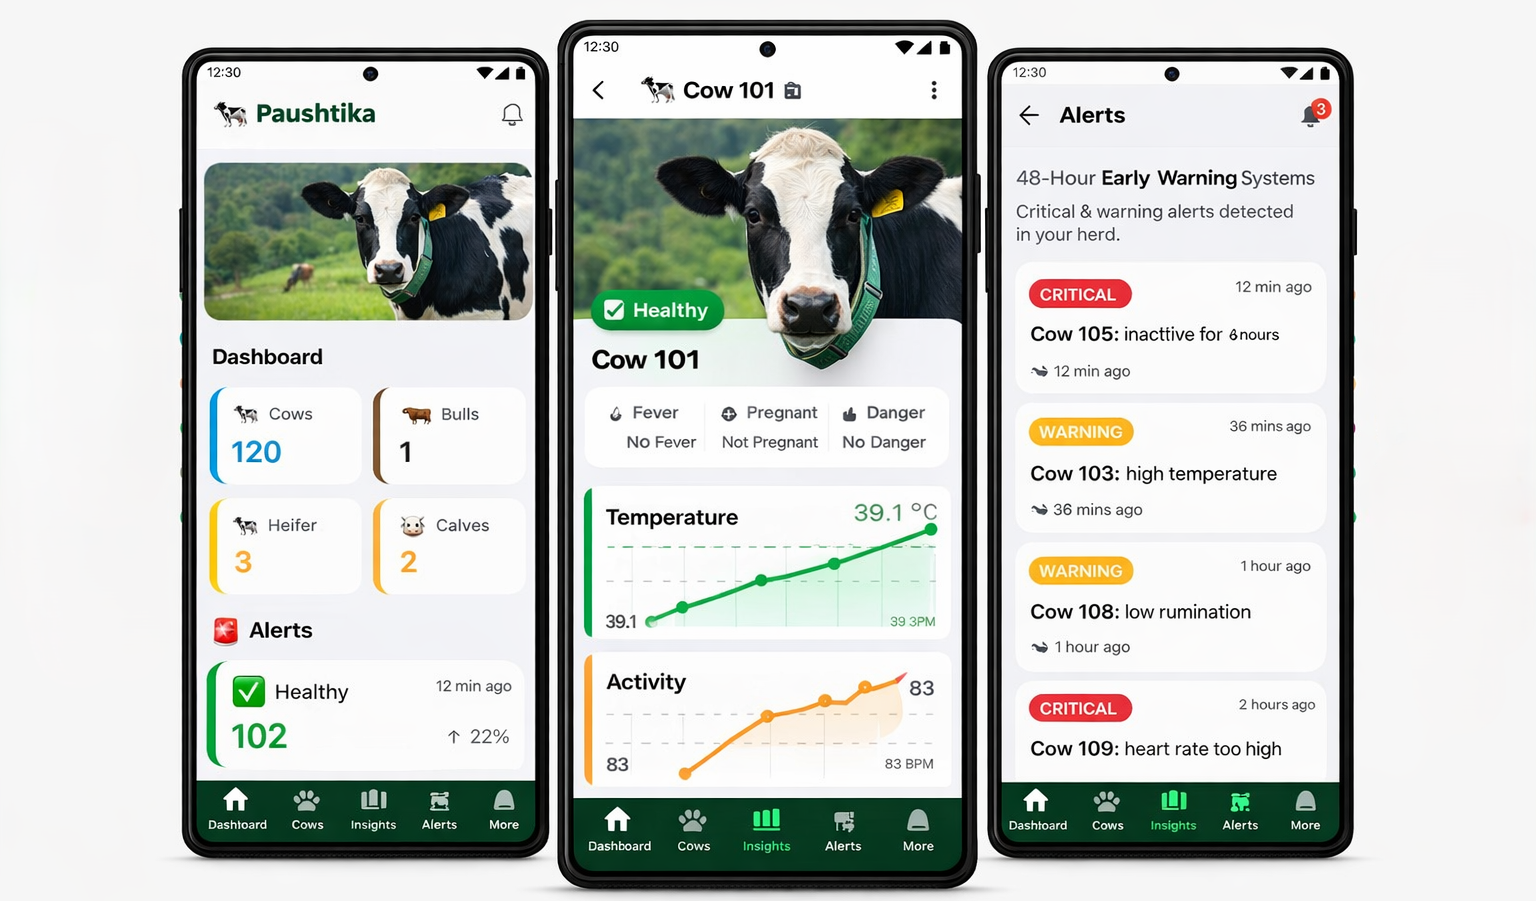
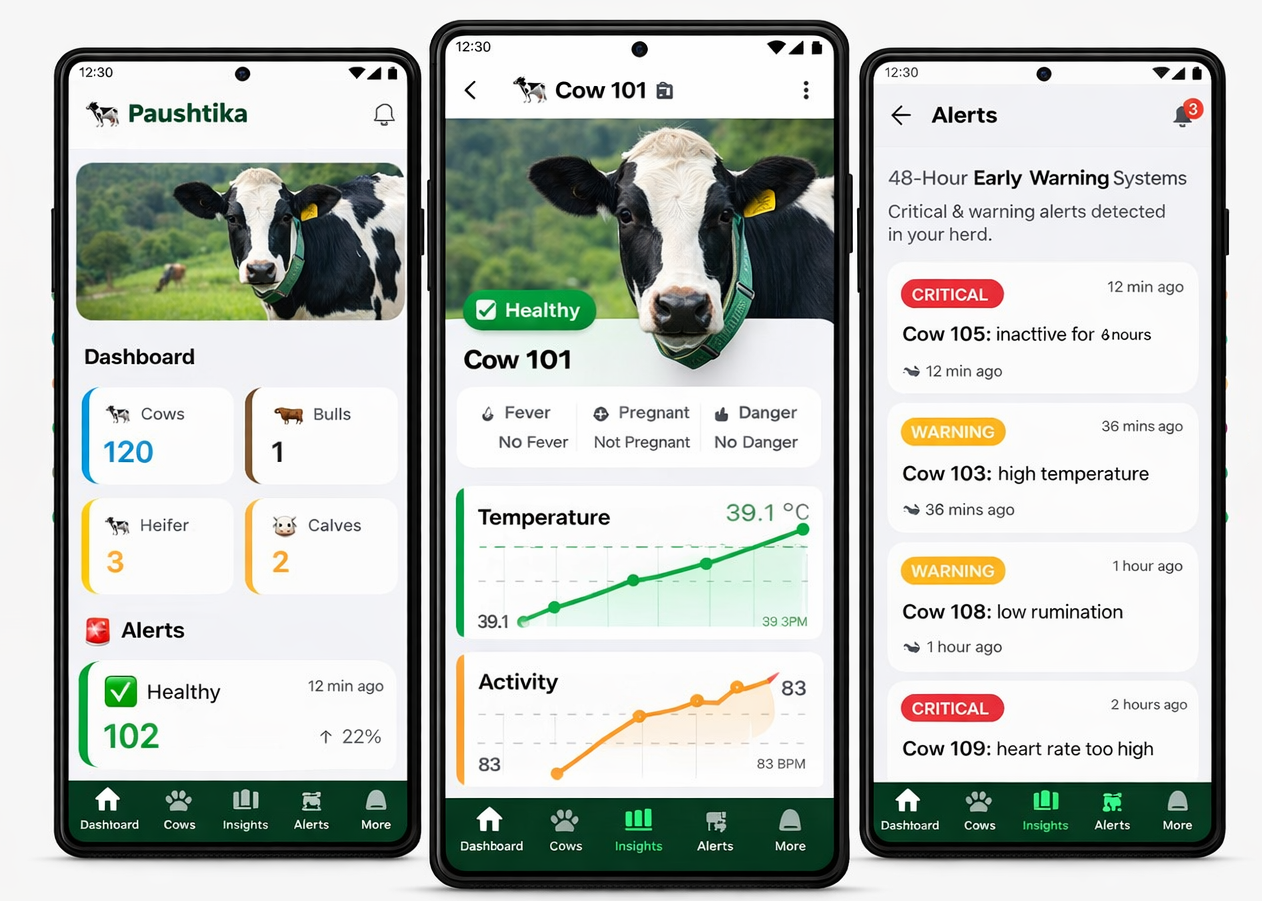
232323

diff --git a/index.html b/index.html
@@ -155,7 +155,7 @@
                         <!-- <a href="#" class="btn-read">Read More</a> -->
                     </div>
                 </div>
-                <div class="product-card">
+                <!-- <div class="product-card">
                     <div class="product-image" style="display: flex; justify-content: center; align-items: center;">
                         <img src="img/nutriTrack_picc.png" alt="Smart Baby Feeding Solution" loading="lazy">
                     </div>
@@ -181,9 +181,9 @@
                                 <span>Nutrition analytics</span>
                             </div>
                         </div>
-                        <!-- <a href="#" class="btn-read">Read More</a> -->
+                        <a href="#" class="btn-read">Read More</a>
                     </div>
-                </div>
+                </div> -->
             </div>
         </div>
     </section>
@@ -197,7 +197,7 @@
     <section class="paushtika" id="paushtika">
         <div class="container">
             <div class="section-title">
-                <h3>Paushtika</h3>
+                <h3>Paushtika App</h3>
                 <p>AI Cattle Health Monitor</p>
             </div>
             <div class="paushtika-grid">
@@ -232,7 +232,7 @@
                 </div>
 
                 <div class="cow-dashboard-image-container">
-                    <img src="img/paushtika lora.png" alt="Paushtika dashboard for cow monitoring" loading="lazy" style="height: auto;">
+                    <img src="img/paushtika lora.png" alt="Paushtika dashboard for cow monitoring" loading="lazy">
                 </div>
 
             </div>
@@ -246,7 +246,7 @@
             <div class="cow-insight-content">
 
                 <div class="cow-insight-image-container">
-                    <img src="img/analytics.png" alt="Paushtika select cow analytics" loading="lazy">
+                    <img src="img/paushtika analytics temp.png" alt="Paushtika select cow analytics" loading="lazy">
                 </div>
 
                 <div class="cow-insight-text">
@@ -295,7 +295,7 @@
                 </div>
 
                 <div class="cow-dashboard-image-container">
-                    <img src="img/COW_selectt.png" alt="Paushtika cow status monitoring" loading="lazy">
+                    <img src="img/paushtika cow selet.png" alt="Paushtika cow status monitoring" loading="lazy">
                 </div>
 
             </div>
@@ -309,7 +309,7 @@
             <div class="cow-insight-content">
 
                 <div class="cow-insight-image-container">
-                    <img src="img/paushtika-_alert.png" alt="Paushtika cow alert Notification" loading="lazy">
+                    <img src="img/paushtika cow alert.png" alt="Paushtika cow alert Notification" loading="lazy">
                 </div>
 
                 <div class="cow-insight-text">
@@ -389,6 +389,7 @@
 
     <script src="https://cdn.jsdelivr.net/npm/@emailjs/browser@3/dist/email.min.js"></script>
     <script src="js/main.js"></script>
-</body>
 
+    
+</body>
 </html>

diff --git a/css/main.css b/css/main.css
@@ -261,7 +261,7 @@ nav ul li a:hover:after {
 .about,
 .products,
 .technology {
-    padding: 9.7rem 0;
+    padding: 8rem 0;
 }
 
 .about,
@@ -503,18 +503,17 @@ nav ul li a:hover:after {
 
 .paushtika-image {
     overflow: hidden;
-    padding: 15px 15px 0 15px;
 }
 
 .paushtika-image img {
     width: 100%;
-    height: 100%;
+    height: 700px;
     object-fit: contain;
     border-radius: 10px;
 }
 
 .cow-dashboard {
-    padding: 100px 0;
+    padding: 6rem 0;
     background-color: var(--light);
 }
 
@@ -558,28 +557,22 @@ nav ul li a:hover:after {
 
 /* IMAGE CONTAINER */
 .cow-dashboard-image-container {
-    flex: 1.5;
+    flex: 1.2;
     border-radius: 20px;
-    padding: 15px;
-    transition: all 0.3s ease;
-}
-
-.cow-dashboard-image-container:hover {
-    transform: translateY(-5px);
 }
 
 .cow-dashboard-image-container img {
     width: 100%;
-    height: 480px;
+    height: auto;
     object-fit: contain;
-    border-radius: 12px;
+    border-radius: 20px;
 }
 
 
 /**** Cow Insight Section ****/
 
 .cow-insight {
-    padding: 100px 0;
+    padding: 5rem 0;
     background-color: var(--white);
 }
 
@@ -623,24 +616,58 @@ nav ul li a:hover:after {
 
 /* IMAGE CONTAINER */
 .cow-insight-image-container {
-    flex: 1.5;
+    flex: 1.2;
     border-radius: 20px;
-    padding: 15px;
-    transition: all 0.3s ease;
-}
-
-.cow-insight-image-container:hover {
-    transform: translateY(-5px);
 }
 
 .cow-insight-image-container img {
     width: 100%;
-    height: 480px;
+    height: auto;
     object-fit: contain;
-    border-radius: 12px;
+    border-radius: 20px;
 }
 
 /*mobile optim*/
+
+
+@media (max-width: 768px) {
+
+    .paushtika {
+        padding: 40px 0;
+    }
+
+    .section-title h3 {
+        font-size: 24px;
+        text-align: center;
+        margin-bottom: 5px;
+    }
+
+    .section-title p {
+        font-size: 13px;
+        text-align: center;
+    }
+
+    .paushtika-grid {
+        grid-template-columns: 1fr;
+        gap: 10px;
+        margin-top: 20px;
+    }
+
+    .paushtika-image {
+        padding: 0;
+    }
+
+    .paushtika-image img {
+        width: 100%;
+        height: auto;
+        max-width: 100%;
+        object-fit: contain;
+        border-radius: 0; /* full-width clean look */
+    }
+}
+
+
+
 @media (max-width: 1199px) {
     .hero h2 {
         font-size: 42px;
